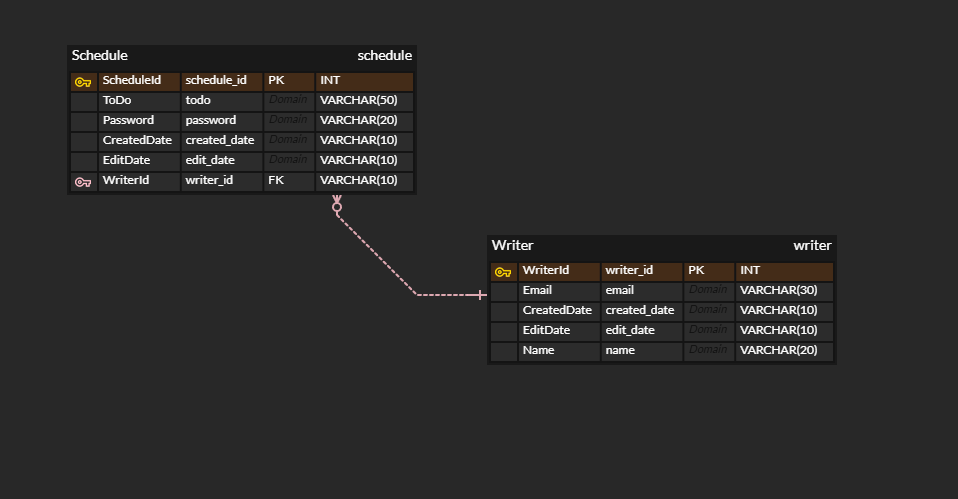
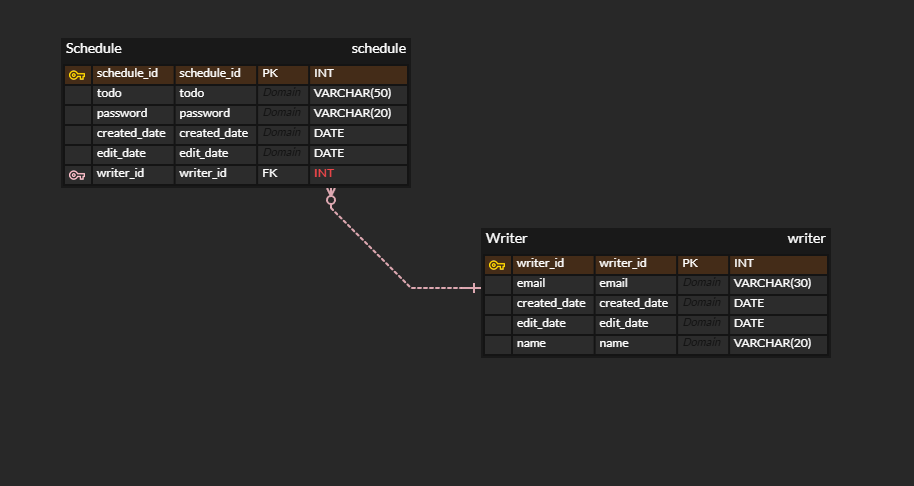
docs: readme수정 / erd 수정

diff --git a/README.md b/README.md
@@ -1,12 +1,330 @@
 # API 명세서
-|    기능    | Method |             URL             | request  | response | 상태코드
-|:--------:|:------:|:---------------------------:|:--------:|:--------:|:---:|
-|  일정 등록   |  POST  |       /api/schedules        | 요청 body  |  등록 정보   | 201: 정상등록 |
-|  일정 조회   |  GET   | /api/schedules/{scheduleId} | 요청 param | 단건 응답 정보 | 200: 정상조회
-| 일정 목록 조회 |  GET   |       /api/schedules        | 요청 param | 다건 응답 정보 | 200: 정상조회
-| 일정 목록 조회 |  PUT   | /api/schedules/{scheduleId} | 요청 body  |  수정 정보   | 200: 정상수정
-| 일정 목록 조회 | DELETE | /api/schedules/{scheduleId} | 요청 param |    -     | 200: 정상삭제
+
+## schedule
+|    기능    | Method |             URL             |                  request                  | response |          상태코드           
+|:--------:|:------:|:---------------------------:|:-----------------------------------------:|:--------:|:-----------------------:|
+|  일정 등록   |  POST  |       /api/schedules        |             요청 body: schedule             |  등록 정보   | 201: 정상등록 <br/> 400: 오류 |
+|  일정 조회   |  GET   | /api/schedules/{scheduleId} |           요청 param: scheduleId            | 단건 응답 정보 |        200: 정상조회 <br/> 404: 오류
+| 일정 목록 조회 |  GET   |       /api/schedules        |                     x                     | 다건 응답 정보 |        200: 정상조회 <br/> 400: 오류       
+|  일정 수정   |  PUT   | /api/schedules/{scheduleId} | 요청 body: schedule <br/> param: scheduleId |  수정 정보   |        200: 정상수정 <br/> 400: 오류       
+|  일정 삭제   | DELETE | /api/schedules/{scheduleId} |           요청 param: scheduleId            |    -     |        200: 정상삭제 <br/> 400: 오류       
+
+[//]: # (일정 등록)
+<details>
+    <summary>일정 등록</summary>
+    
+- 요청 정보
+    <table>
+      <tr>
+        <td ><b>메소드</b></td>
+        <td ><b>요청 URL</b></td>
+      </tr>
+      <tr>
+        <td>POST</td>
+        <td >/api/schedules</td>
+      </tr>
+    </table>
+- 예시
+  - 요청: POST /api/schedules
+
+  ```json
+  {     
+        "writer_id" : 1,
+        "writer" : "아무개1",
+        "password" : "abc!123",
+        "todo" : "나는 오늘 강의를 들을 것이다.",
+        "created_date" : "2024-10-31",
+        "edit_date" : "2024-10-31"
+  }
+  ```
+  - 응답: HTTP/1.1 201 Created
+
+  ```json
+  {
+        "schedule_id" : 3,
+        "writer_id" : 1,
+        "writer" : "아무개1",
+        "password" : "abc!123",
+        "todo" : "나는 오늘 강의를 들을 것이다.",
+        "created_date" : "2024-10-31",
+        "edit_date" : "2024-10-31"
+  }
+  ```
+            
+</details>
+
+[//]: # (일정 목록 조회)
+<details>
+    <summary>일정 목록 조회</summary>
+
+- 요청 정보
+    <table>
+      <tr>
+        <td ><b>메소드</b></td>
+        <td ><b>요청 URL</b></td>
+      </tr>
+      <tr>
+        <td>GET</td>
+        <td >/api/schedules</td>
+      </tr>
+    </table>
+- 예시
+  - 요청: GET /api/schedules
+
+  - 응답: HTTP/1.1 200 OK
+
+  ```json
+  "schedules" : [
+    {
+        "schedule_id" : 3,
+        "writer_id" : 1,
+        "writer" : "아무개1"
+        "password" : "abc!123",
+        "todo" : "나는 오늘 강의를 들을 것이다.",
+        "created_date" : "2024-10-31",
+        "edit_date" : "2024-10-31"
+  },
+  {
+        "schedule_id" : 2,
+        "writer_id" : 1,
+       "writer" : "아무개1",
+        "password" : "abc!123",
+        "todo" : "나는 오늘 강의를 들을 것이다.",
+        "created_date" : "2024-10-31",
+        "edit_date" : "2024-10-31"
+  }
+  ]
+  ```
+</details>
+
+[//]: # (일정 단건 조회)
+<details>
+    <summary>일정 단건 조회</summary>
+
+- 요청 정보
+    <table>
+      <tr>
+        <td ><b>메소드</b></td>
+        <td ><b>요청 URL</b></td>
+      </tr>
+      <tr>
+        <td>GET</td>
+        <td >/api/schedules/{scheduleId}</td>
+      </tr>
+    </table>
+- 예시
+    - 요청: GET /api/schedules/{scheduleId}
+
+    - 응답: HTTP/1.1 200 OK
+  ```json
+  {
+        "schedule_id" : 2,
+        "writer_id" : 1,
+       "writer" : "아무개1",
+        "password" : "abc!123",
+        "todo" : "나는 오늘 강의를 들을 것이다.",
+        "created_date" : "2024-10-31",
+        "edit_date" : "2024-10-31"
+  }
+  
+  ```
+</details>
+
+[//]: # (일정 수정)
+<details>
+    <summary>일정 수정</summary>
+
+- 요청 정보
+    <table>
+      <tr>
+        <td ><b>메소드</b></td>
+        <td ><b>요청 URL</b></td>
+      </tr>
+      <tr>
+        <td>PUT</td>
+        <td>/api/schedules/{scheduleId}</td>
+      </tr>
+    </table>
+  
+- 예시
+    - 요청: PUT /api/schedules/{scheduleId}
+  ```json
+  {
+        "schedule_id" : 2,
+        "writer_id" : 1,
+        "writer" : "아무개1",
+        "password" : "abc!123",
+        "todo" : "나는 오늘 쉴 것이다." -> 수정된 내용
+  }
+  ```
+    - 응답: HTTP/1.1 200 OK
+  ```json
+  {
+        "schedule_id" : 2,
+        "writer_id" : 1,
+        "writer" : "아무개1",
+        "password" : "abc!123",
+        "todo" : "나는 오늘 쉴 것이다.",
+        "edit_date" : "2024-11-1"
+  }
+  ```
+</details>
+
+[//]: # (일정 삭제)
+<details>
+    <summary>일정 삭제</summary>
+
+- 요청 정보
+    <table>
+      <tr>
+        <td ><b>메소드</b></td>
+        <td ><b>요청 URL</b></td>
+      </tr>
+      <tr>
+        <td>DELETE</td>
+        <td>/api/schedules/{scheduleId}</td>
+      </tr>
+    </table>
+
+- 예시
+    - 요청: DELETE /api/schedules/{scheduleId}
+    - 응답: HTTP/1.1 200 OK
+</details>
+
+## writer
+|   기능   | Method |             URL             |               request                | response |          상태코드           
+|:------:|:------:|:---------------------------:|:------------------------------------:|:--------:|:-----------------------:|
+| 작성자 등록 |  POST  |        /api/writers         |           요청 body: writer            |  작성자 정보  | 201: 정상등록 <br/> 400: 오류 |
+| 작성자 조회 |  GET   |   /api/writers/{writerId}   |          요청 param: writerId          |  작성자 정보  |        200: 정상조회 <br/> 404: 오류
+| 작성자 수정 |  PUT   |   /api/writers/{writerId}   | 요청 body: writer<br>요청 param: writerId |  수정된 정보  |        200: 정상조회 <br/> 404: 오류
+| 작성자 삭제 | DELETE | /api/schedules/{scheduleId} |          요청 param: writerId          |    -     |        200: 정상삭제 <br/> 400: 오류       
+
+[//]: # (작성자 등록)
+<details>
+    <summary>작성자 등록</summary>
+
+- 요청 정보
+    <table>
+      <tr>
+        <td ><b>메소드</b></td>
+        <td ><b>요청 URL</b></td>
+      </tr>
+      <tr>
+        <td>POST</td>
+        <td >/api/writers</td>
+      </tr>
+    </table>
+- 예시
+    - 요청: POST /api/writers
+
+  ```json
+  {     
+        "email" : "a@b.com",
+        "name" : "아무개1"
+  }
+  ```
+    - 응답: HTTP/1.1 201 Created
+
+  ```json
+  {
+        "writer_id" : 1,
+        "email" : "a@b.com",
+        "name" : "아무개1",
+        "created_date" : "2024-10-31",
+        "edit_date" : "2024-10-31"
+  }
+  ```
+
+</details>
+
+[//]: # (작성자 단건 조회)
+<details>
+    <summary>작성자 단건 조회</summary>
+
+- 요청 정보
+    <table>
+      <tr>
+        <td ><b>메소드</b></td>
+        <td ><b>요청 URL</b></td>
+      </tr>
+      <tr>
+        <td>GET</td>
+        <td >/api/writers/{writerId}</td>
+      </tr>
+    </table>
+- 예시
+    - 요청: GET /api/writers/{writerId}
+
+    - 응답: HTTP/1.1 200 OK
+  
+  ```json
+  {
+        "writer_id" : 1,
+        "email" : "a@b.com",
+        "name" : "아무개1"
+  }
+  ```
+</details>
+
+[//]: # (일정 수정)
+<details>
+    <summary>작성자 수정</summary>
+
+- 요청 정보
+    <table>
+      <tr>
+        <td ><b>메소드</b></td>
+        <td ><b>요청 URL</b></td>
+      </tr>
+      <tr>
+        <td>PUT</td>
+        <td>/api/writers/{writerId}</td>
+      </tr>
+    </table>
+
+- 예시
+    - 요청: PUT /api/writers/{writerId}
+  ```json
+  {
+        "writer_id" : 1,
+        "email": "b@c.com", -> 수정된 내용
+        "name" : "아무개1"
+  }
+  ```
+    - 응답: HTTP/1.1 200 OK
+  ```json
+  {
+        "writer_id" : 1,
+        "email": "b@c.com",
+        "name" : "아무개1",
+        "edit_date" : "2024-11-1"
+  }
+  ```
+</details>
+
+[//]: # (작성자 삭제)
+<details>
+    <summary>작성자 삭제</summary>
+
+- 요청 정보
+    <table>
+      <tr>
+        <td ><b>메소드</b></td>
+        <td ><b>요청 URL</b></td>
+      </tr>
+      <tr>
+        <td>DELETE</td>
+        <td>/api/writers/{writerId}</td>
+      </tr>
+    </table>
+
+- 예시
+    - 요청: DELETE /api/writers/{writerId}
+    - 응답: HTTP/1.1 200 OK
+</details>
 
 # ERD
+
+---
 ![ERD이미지](erd.png)
 
